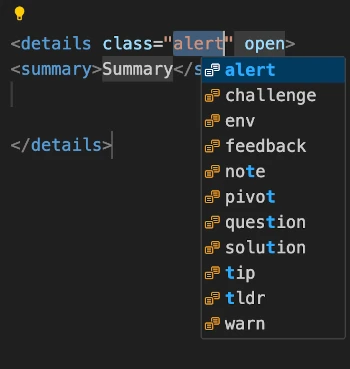
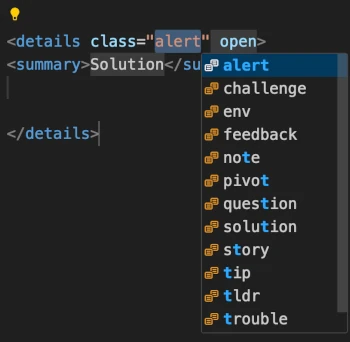
Add tip for attributing images

diff --git a/docs/index.html b/docs/index.html
@@ -970,7 +970,8 @@ your image.</p>
 for automatically numbering the <code>figcaption</code> elements in your
 <code>index.html</code> file. Look for the following rule if you want to
 name or style your images differently.</p>
-<pre class="language-css line-numbers" data-start="210"><code class="language-css line-numbers"><i>figure {
+<pre class="language-css line-numbers" data-start="233"><code class="language-css line-numbers"><i>figure {
+  position: relative; /* so credits show correctly */
   margin: 0;
 
   figcaption {
@@ -985,6 +986,30 @@ name or style your images differently.</p>
     }</b><i>
   }
 }</i></code></pre>
+<details class="tip">
+<summary>
+Crediting images with a Creative Commons licence
+</summary>
+<p>If you use a third-party image which requires attribution, you can
+provide the required information in an attribute block immediately after
+the link.</p>
+<pre class="language-md wrap"><code class="language-md wrap">![<u>Caption</u>](images/ChosenImage.jpg){data-title="Original title" data-credit="Image by [credit text](https://example.com/credit/link)"}</code></pre>
+<p>If no <code>data-title</code> is given, the value for
+<code>alt</code> will be used instead. An <code>alt</code> attribute
+must be given in the square brackets, shown as
+<code>[Caption]</code>.</p>
+<p>For example, the following markdown will embed the image shown below.
+When you rollover the image, an interactive credits overlay will
+appear.</p>
+<pre class="language-md wrap"><code class="language-md wrap">![Creative CC Commons image](https://live.staticflickr.com/5448/9645435189_32282abc3b_w.jpg){data-credits="[CC BY-ND 2.0](https://creativecommons.org/licenses/by-nd/2.0/) by [Dennis Skley](https://www.flickr.com/photos/dskley/) | [original](https://www.flickr.com/photos/dskley/9645435189) | [Facebook](https://www.facebook.com/Skley.Photography)"}</code></pre>
+<figure>
+<img
+src="https://live.staticflickr.com/5448/9645435189_32282abc3b_w.jpg"
+data-credits="[CC BY-ND 2.0](https://creativecommons.org/licenses/by-nd/2.0/) by [Dennis Skley](https://www.flickr.com/photos/dskley/) | [original](https://www.flickr.com/photos/dskley/9645435189) | [Facebook](https://www.facebook.com/Skley.Photography)"
+alt="Creative CC Commons image" />
+<figcaption aria-hidden="true">Creative CC Commons image</figcaption>
+</figure>
+</details>
 <details class="tldr">
 <summary>
 VS Code Markdown Preview
@@ -1261,11 +1286,23 @@ Feedback
 </summary>
 <p>This is a request for feedback.</p>
 </details>
+<details class="sandbox" open>
+<summary>
+Sandbox
+</summary>
+<p>This is a sandbox: a place to experiment and make mistakes</p>
+</details>
 <details class="tip" open>
 <summary>
 Tip
 </summary>
 <p>This is a tip.</p>
+</details>
+<details class="trouble">
+<summary>
+Troubleshooting
+</summary>
+<p>Help with troubleshooting. Usually closed</p>
 </details>
 </details>
 <details class="warn" open>
@@ -1278,7 +1315,7 @@ Warn
 <summary>
 Alert
 </summary>
-<p>This is a alert.</p>
+<p>This is an alert.</p>
 </details>
 <details class="question" open>
 <summary>
@@ -1311,25 +1348,38 @@ Pivot
 </summary>
 <p>This concludes a section and introduces the next topic.</p>
 </details>
+<details class="env" open>
+<summary>
+Environment
+</summary>
+<p>Information about code editing and other useful programs</p>
+</details>
+<details class="story">
+<summary>
+Story
+</summary>
+<p>A personal anecdote or business case study. Usually closed.</p>
+</details>
 <h2 id="styling">Styling</h2>
 <p>The colours for the <code>&lt;details&gt;</code> elements are defined
 in the <code>:root</code> section of
 <code>MyTutorials.github.io/public/styles/</code>.</p>
-<pre class="language-css line-numbers" data-start="33"><code class="language-css line-numbers">  /* Details */
-  --alert:     #600;
+<pre class="language-css line-numbers" data-start="34"><code class="language-css line-numbers">/* Details */
+  --alert:     #800;
   --challenge: #609;
   --env:       #069;
-  --feedback:  #064;
   --note:      #040;
   --pivot:     #03c;
   --question:  #907;
   --solution:  #4069;
+  --story:     #088;
   --tip:       #960;
   --tldr:      #004;
+  --trouble:   #c60;
   --warn:      #630;</code></pre>
 <p>The <code>background-color</code>s are generated using the newly
 available <code>color-mix</code> functional notation:</p>
-<pre class="language-css line-numbers" data-start="664"><code class="language-css line-numbers">  background-color: color-mix(
+<pre class="language-css line-numbers" data-start="702"><code class="language-css line-numbers">  background-color: color-mix(
     in oklab,
     var(--bg-color),
     var(--darker)

diff --git a/docs/md/09-Images.md b/docs/md/09-Images.md
@@ -57,8 +57,9 @@ If you press Tab again, the word `Caption` will be selected, and you can type th
 
 `MyTutorials.github.io/public/styles.css` contains a rule for automatically numbering the `figcaption` elements in your `index.html` file. Look for the following rule if you want to name or style your images differently.
 
-```css-#210
+```css-#233
 <i>figure {
+  position: relative; /* so credits show correctly */
   margin: 0;
 
   figcaption {
@@ -74,6 +75,24 @@ If you press Tab again, the word `Caption` will be selected, and you can type th
   }
 }</i>
 ```
+
+<details class="tip">
+<summary>Crediting images with a Creative Commons licence</summary>
+If you use a third-party image which requires attribution, you can provide the required information in an attribute block immediately after the link.
+
+```md-w
+![<u>Caption</u>](images/ChosenImage.jpg){data-title="Original title" data-credit="Image by [credit text](https://example.com/credit/link)"}
+```
+
+If no `data-title` is given, the value for `alt` will be used instead. An `alt` attribute must be given in the square brackets, shown as `[Caption]`.
+
+For example, the following markdown will embed the image shown below. When you rollover the image, an interactive credits overlay will appear.
+
+```md-w
+![Creative CC Commons image](https://live.staticflickr.com/5448/9645435189_32282abc3b_w.jpg){data-credits="[CC BY-ND 2.0](https://creativecommons.org/licenses/by-nd/2.0/) by [Dennis Skley](https://www.flickr.com/photos/dskley/) | [original](https://www.flickr.com/photos/dskley/9645435189) | [Facebook](https://www.facebook.com/Skley.Photography)"}
+```
+![Creative CC Commons image](https://live.staticflickr.com/5448/9645435189_32282abc3b_w.jpg){data-credits="[CC BY-ND 2.0](https://creativecommons.org/licenses/by-nd/2.0/) by [Dennis Skley](https://www.flickr.com/photos/dskley/) | [original](https://www.flickr.com/photos/dskley/9645435189) | [Facebook](https://www.facebook.com/Skley.Photography)"}
+</details>
 
 
 <details class="tldr">

diff --git a/docs/md/13-Details.md b/docs/md/13-Details.md
@@ -26,9 +26,21 @@ This is a request for feedback.
 
 </details>
 
+<details class="sandbox" open>
+<summary>Sandbox</summary>
+This is a sandbox: a place to experiment and make mistakes
+
+</details>
+
 <details class="tip" open>
 <summary>Tip</summary>
 This is a tip.
+
+</details>
+
+<details class="trouble" >
+<summary>Troubleshooting</summary>
+Help with troubleshooting. Usually closed
 
 </details>
 
@@ -41,7 +53,7 @@ This is a warning.
 
 <details class="alert" open>
 <summary>Alert</summary>
-This is a alert.
+This is an alert.
 
 </details>
 
@@ -74,27 +86,40 @@ This concludes a section and introduces the next topic.
 
 </details>
 
+<details class="env" open>
+<summary>Environment</summary>
+Information about code editing and other useful programs
+
+</details>
+
+<details class="story">
+<summary>Story</summary>
+A personal anecdote or business case study. Usually closed.
+
+</details>
+
 ## Styling
 The colours for the `<details>` elements are defined in the `:root` section of `MyTutorials.github.io/public/styles/`.
 
-```css-#33
-  /* Details */
-  --alert:     #600;
+```css-#34
+/* Details */
+  --alert:     #800;
   --challenge: #609;
   --env:       #069;
-  --feedback:  #064;
   --note:      #040;
   --pivot:     #03c;
   --question:  #907;
   --solution:  #4069;
+  --story:     #088;
   --tip:       #960;
   --tldr:      #004;
+  --trouble:   #c60;
   --warn:      #630;
 ```
 
 The `background-color`s are generated using the newly available `color-mix` functional notation:
 
-```css-#664
+```css-#702
   background-color: color-mix(
     in oklab,
     var(--bg-color),
